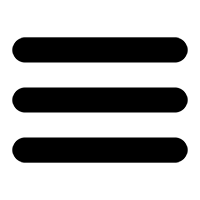
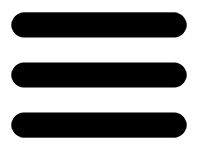
fff

diff --git a/css/main.css b/css/main.css
@@ -243,7 +243,7 @@ td {
 .hamburger {
 	display:none;
 	float:right;
-	max-width:200px;
+	max-width:100px;
 	cursor:pointer;
 }
 
